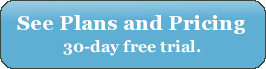
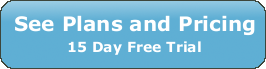
First version of home page complete.

Changed region(s): [[0.0301, 0.2029, 0.9624, 0.5217], [0.2105, 0.5797, 0.782, 0.8116]]

diff --git a/webapp/templates/postosaurus/home.html b/webapp/templates/postosaurus/home.html
@@ -27,7 +27,7 @@
 <div id="middle">
   <div id="copy">
     <h2>
-    If you know how to use email, you know how to use Postosaurus.
+    Your project runs on email. Postosaurus makes email better.
     </h2>
     <h3>
     Postosaurus uses a private email list to track your project's communications, files, links and tasks.
@@ -43,24 +43,32 @@
     <ul>
       <li>
       <h2>Email</h2>
-      <p>Use one email address to communicate with your entire group. Every email is stored in a searchable archive.</p>
+      <p class="scannable">Use one email address to communicate with your entire group.</p>
+      <p> Every email is stored in a searchable archive.</p>
       </li>
       <li>
       <h2>Files</h2>
+      <p class="scannable">
+      Postosaurus manages your project's documents.
+      </p>
       <p>
-      All files emailed to your group are automatically uploaded, backed up and stored in your group's web site. You will always know the most recent version of a file. Never lose a file again.
+      To add a file to your project, attach it to an email and send it to your group. See every version of every file emailed to your project in one place. 
       </p>
       </li>
       <li>
       <h2>Links</h2>
+      <p class="scannable">All of your project's urls in one place.</p>
       <p>
-      Email a link of interest to your group and Postosaurus will remember that link and store it where anyone in the group can easily find it later. No more fruitless searching for "that link you sent."
+      Email a link to your group and Postosaurus will store it where you can find it later. No more fruitless searching for "that link you sent."
       </p>
       </li>
       <li>
-      <h2>Tasks -- Coming soon!</h2>
+      <h2>Tasks <span id="soon">(Coming soon.)</span></h2>
+      <p class="scannable">
+      Email yourself or someone else a task to do later. 
+      </p>
       <p>
-      Have you ever emailed yourself a task to do later? Or sent an email asking someone to complete a task you are waiting on? Postosaurus builds task lists using these emails automatically. View all of your group's tasks from one place on your web site without losing the convenience of using email.
+      Postosaurus builds task lists from emails automatically. View all of your project's tasks from one place without losing the convenience of using email.
       </p>
       </li>
     </ul>
@@ -74,15 +82,15 @@
   Do I need to create a new email account?
   </h2>
   <p>
-  No, you do not need to create a new email account. When you create a Postosaurus group you get a private email list for your group. You send email to that address from your email address and it goes to everyone in your group.
+  No. When you create a Postosaurus group you get a private email list for your group. You send email to that address from your own email address and it goes to everyone in your group.
   </p>
 </div>
 <div class="question">
   <h2>
-  Can I try it for free?
+  Do I need to download and install software?
   </h2>
   <p>
-  Every Postosaurus plan comes with a 15 day free trial. You can cancel at any time.
+  No. Postosaurus is entirely web-based. In fact, you don't even have to use the web site as most activities can be accomplished using plain old email.
   </p>
 </div>
 <div class="question">
@@ -90,12 +98,12 @@
   If I cancel, what happens to my data?
   </h2>
   <p>
-  Even if you cancel your plan you can still access your group's web site to download files and search your email archives and links. You have access to all of your data, you just can't add new links, files or send emails to your group.
+  Even if you cancel your plan you still have access to all of your data, you just can't add new links, files or send emails to your group.
   </p>
 </div>
 </div>
 <p id="bottomcopy">
-Convincing your group members to use a traditional web-based collaboration tool is a challenge. Everyone falls back on email to send versions of files or for quick communication. Why fight it? Postosaurus makes email better. Your group members never even need to sign in to the web site. To start using Postosaurus, simply send an email to the group.
+You begin your project using a traditional project management tool, but in the end everyone in your group skips using the tool and sends emails. Why fight it? <span class="callout">If you know how to use email you know how to use Postosaurus.</span> Your group members never even need to sign in to the web site. To start using Postosaurus, simply send an email to the group.
 </p>
 <a href="{% url webapp.postosaurus.views.plans %}">
 <img src="{{ MEDIA_URL }}images/signup-button.png" />

diff --git a/media/css/home.css b/media/css/home.css
@@ -62,6 +62,7 @@
 /*bottom layout*/
 #bottom{
     margin-top: 15px;
+    margin-bottom: 15px;
 }
 
 #bottomcopy{
@@ -100,7 +101,7 @@ hr {
     font-family: georgia;
     font-size: 24px;
     font-weight: bold;
-    color: rgb(240, 240, 240);
+    color: white;
 }
 
 #top h2{
@@ -155,16 +156,23 @@ hr {
 }
 
 #features h2{
-    font-size: 16px;
+    font-family: verdana;
+    font-size: 15px;
     font-weight: bold;
-    color: rgb(40, 40, 40);
-    margin-bottom: 5px;
+    color: rgb(80, 80, 80);
+    margin-bottom: 10px;
+}
+
+#features p.scannable{
+    font-size: 14px;
+    margin-bottom: 8px;
 }
 
 #features p{
     font-family: georgia;
-    font-size: 14px;
-    color: rgb(80, 80, 80);
+    font-size: 11px;
+    color: rgb(40, 40, 40);
+    margin-bottom: 5px;
 }
 
 .question{
@@ -172,27 +180,38 @@ hr {
 }
 
 .question h2{
-    font-family: georgia;
-    font-size: 16px;
+    font-family: verdana;
+    font-size: 14px;
     font-weight: bold;
     color: rgb(40, 40, 40);
     height: 40px;
+    margin-bottom: 8px;
 }
 
 .question p{
-    font-family: verdana;
+    font-family: georgia;
     font-size: 12px;
     color: rgb(80, 80, 80);
 }
 
 #bottomcopy{
     font-family: georgia;
-    color: rgb(40, 40, 40);
-    font-size: 15px;
+    color: rgb(80, 80, 80);
+    font-size: 14px;
 }
 
 hr{
     color: rgb(200, 200, 200);
     background-color: rgb(200, 200, 200);
     margin-bottom: 30px;
+}
+
+#soon {
+    font-size: 9px;
+}
+
+.callout{
+    font-weight: bold;
+    font-size: 17px;
+    color: rgb(40, 40, 40);
 }
